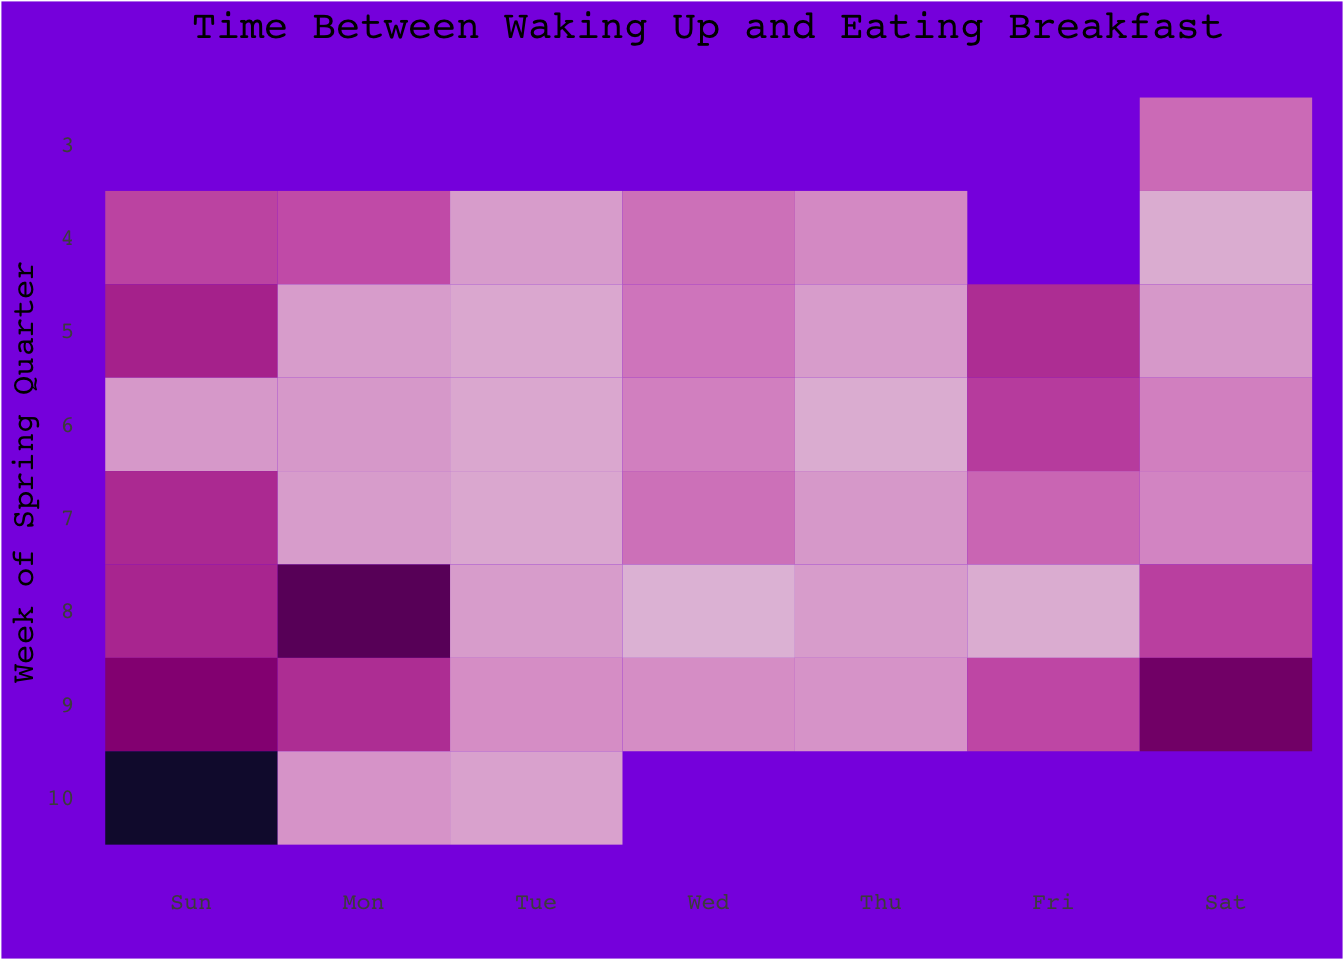
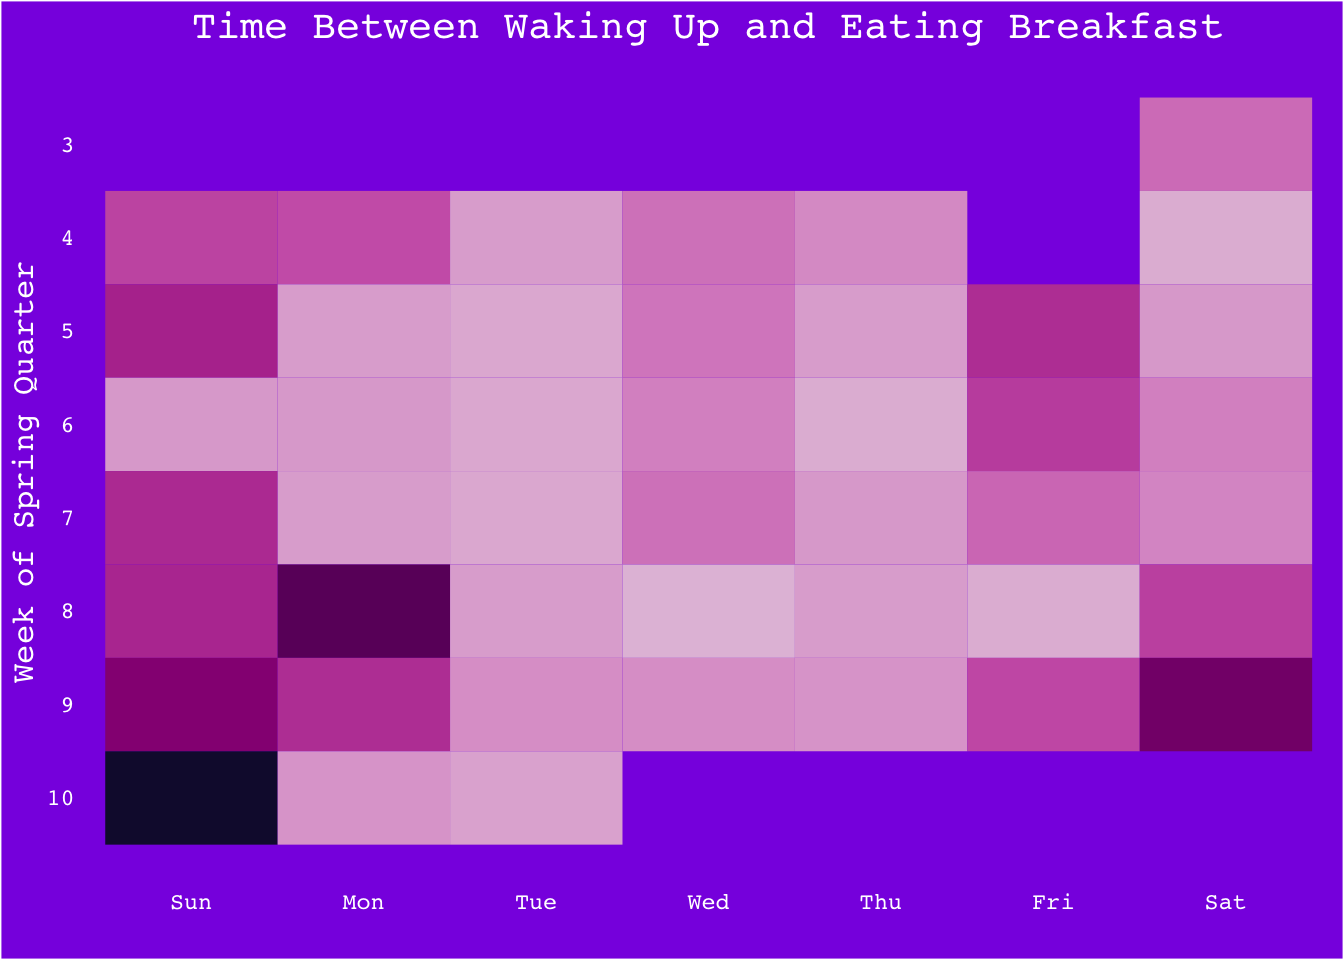
Wrote explanation, annotated code, organized data using here

diff --git a/code/advanced_data_vis.html b/code/advanced_data_vis.html
@@ -73,10 +73,19 @@ pre > code.sourceCode > span > a:first-child::before { text-decoration: underlin
 
 </head>
 
-<body class="fullcontent">
+<body>
 
 <div id="quarto-content" class="page-columns page-rows-contents page-layout-article">
-
+<div id="quarto-margin-sidebar" class="sidebar margin-sidebar">
+  <nav id="TOC" role="doc-toc" class="toc-active">
+    <h2 id="toc-title">Table of contents</h2>
+   
+  <ul>
+  <li><a href="#part-1.-understand-the-context" id="toc-part-1.-understand-the-context" class="nav-link active" data-scroll-target="#part-1.-understand-the-context">Part 1. Understand the context</a></li>
+  <li><a href="#part-2.-make-your-own-visualization-using-your-data" id="toc-part-2.-make-your-own-visualization-using-your-data" class="nav-link" data-scroll-target="#part-2.-make-your-own-visualization-using-your-data">Part 2. Make your own visualization using your data</a></li>
+  </ul>
+</nav>
+</div>
 <main class="content" id="quarto-document-content">
 
 <header id="title-block-header" class="quarto-title-block default">
@@ -147,74 +156,50 @@ pre > code.sourceCode > span > a:first-child::before { text-decoration: underlin
 <div class="cell">
 <div class="sourceCode cell-code" id="cb1"><pre class="sourceCode r code-with-copy"><code class="sourceCode r"><span id="cb1-1"><a href="#cb1-1" aria-hidden="true" tabindex="-1"></a><span class="co">#read in packages</span></span>
 <span id="cb1-2"><a href="#cb1-2" aria-hidden="true" tabindex="-1"></a><span class="fu">library</span>(readxl) <span class="co"># activating package to analyze excel files</span></span>
-<span id="cb1-3"><a href="#cb1-3" aria-hidden="true" tabindex="-1"></a><span class="fu">library</span>(tidyverse) <span class="co"># activating package to use pipe operator</span></span></code><button title="Copy to Clipboard" class="code-copy-button"><i class="bi"></i></button></pre></div>
-<div class="cell-output cell-output-stderr">
-<pre><code>── Attaching core tidyverse packages ──────────────────────── tidyverse 2.0.0 ──
-✔ dplyr     1.1.4     ✔ readr     2.1.5
-✔ forcats   1.0.0     ✔ stringr   1.5.1
-✔ ggplot2   3.5.1     ✔ tibble    3.2.1
-✔ lubridate 1.9.3     ✔ tidyr     1.3.1
-✔ purrr     1.0.2     
-── Conflicts ────────────────────────────────────────── tidyverse_conflicts() ──
-✖ dplyr::filter() masks stats::filter()
-✖ dplyr::lag()    masks stats::lag()
-ℹ Use the conflicted package (&lt;http://conflicted.r-lib.org/&gt;) to force all conflicts to become errors</code></pre>
-</div>
-<div class="sourceCode cell-code" id="cb3"><pre class="sourceCode r code-with-copy"><code class="sourceCode r"><span id="cb3-1"><a href="#cb3-1" aria-hidden="true" tabindex="-1"></a><span class="fu">library</span>(googlesheets4) <span class="co">#read in google sheet data</span></span>
-<span id="cb3-2"><a href="#cb3-2" aria-hidden="true" tabindex="-1"></a><span class="fu">library</span>(MoMAColors) <span class="co">#for color palates</span></span></code><button title="Copy to Clipboard" class="code-copy-button"><i class="bi"></i></button></pre></div>
+<span id="cb1-3"><a href="#cb1-3" aria-hidden="true" tabindex="-1"></a><span class="fu">library</span>(tidyverse) <span class="co"># activating package to use pipe operator</span></span>
+<span id="cb1-4"><a href="#cb1-4" aria-hidden="true" tabindex="-1"></a><span class="fu">library</span>(googlesheets4) <span class="co">#read in google sheet data</span></span>
+<span id="cb1-5"><a href="#cb1-5" aria-hidden="true" tabindex="-1"></a><span class="fu">library</span>(MoMAColors) <span class="co">#for color palates</span></span></code><button title="Copy to Clipboard" class="code-copy-button"><i class="bi"></i></button></pre></div>
 </div>
 <div class="cell">
-<div class="sourceCode cell-code" id="cb4"><pre class="sourceCode r code-with-copy"><code class="sourceCode r"><span id="cb4-1"><a href="#cb4-1" aria-hidden="true" tabindex="-1"></a><span class="co">#import data</span></span>
-<span id="cb4-2"><a href="#cb4-2" aria-hidden="true" tabindex="-1"></a><span class="fu">options</span>(<span class="at">gargle_oauth_email =</span> <span class="cn">TRUE</span>)</span>
-<span id="cb4-3"><a href="#cb4-3" aria-hidden="true" tabindex="-1"></a>oatmeal <span class="ot">&lt;-</span> <span class="fu">read_sheet</span>(<span class="st">"https://docs.google.com/spreadsheets/d/1-jehYNq2uGv3Dk84BBosJTLBaYldt46AJvlJO098-VI/edit?usp=sharing"</span>)</span></code><button title="Copy to Clipboard" class="code-copy-button"><i class="bi"></i></button></pre></div>
-<div class="cell-output cell-output-stderr">
-<pre><code>ℹ The googlesheets4 package is using a cached token for
-  'sebastiancox@ucsb.edu'.</code></pre>
-</div>
-<div class="cell-output cell-output-stderr">
-<pre><code>✔ Reading from "Data Collection Form".</code></pre>
-</div>
-<div class="cell-output cell-output-stderr">
-<pre><code>✔ Range 'Sheet1'.</code></pre>
-</div>
-<div class="sourceCode cell-code" id="cb8"><pre class="sourceCode r code-with-copy"><code class="sourceCode r"><span id="cb8-1"><a href="#cb8-1" aria-hidden="true" tabindex="-1"></a><span class="co">#clean data</span></span>
-<span id="cb8-2"><a href="#cb8-2" aria-hidden="true" tabindex="-1"></a>oatmeal_clean <span class="ot">&lt;-</span> <span class="fu">na.omit</span>(oatmeal) <span class="co">#remove blank values</span></span>
-<span id="cb8-3"><a href="#cb8-3" aria-hidden="true" tabindex="-1"></a><span class="co">#order data according to day</span></span>
-<span id="cb8-4"><a href="#cb8-4" aria-hidden="true" tabindex="-1"></a>day_order <span class="ot">&lt;-</span> <span class="fu">c</span>(<span class="st">"Sun"</span>,<span class="st">"Mon"</span>,<span class="st">"Tue"</span>,<span class="st">"Wed"</span>,<span class="st">"Thu"</span>,<span class="st">"Fri"</span>,<span class="st">"Sat"</span>)</span>
-<span id="cb8-5"><a href="#cb8-5" aria-hidden="true" tabindex="-1"></a>oatmeal_clean<span class="sc">$</span>day <span class="ot">&lt;-</span> <span class="fu">factor</span>(oatmeal_clean<span class="sc">$</span>day, <span class="at">levels =</span> day_order)</span>
-<span id="cb8-6"><a href="#cb8-6" aria-hidden="true" tabindex="-1"></a></span>
-<span id="cb8-7"><a href="#cb8-7" aria-hidden="true" tabindex="-1"></a>oatmeal_vis <span class="ot">&lt;-</span> oatmeal_clean <span class="sc">%&gt;%</span> </span>
-<span id="cb8-8"><a href="#cb8-8" aria-hidden="true" tabindex="-1"></a>  <span class="fu">select</span>(time_to_start_min, day, week)</span></code><button title="Copy to Clipboard" class="code-copy-button"><i class="bi"></i></button></pre></div>
+<div class="sourceCode cell-code" id="cb2"><pre class="sourceCode r code-with-copy"><code class="sourceCode r"><span id="cb2-1"><a href="#cb2-1" aria-hidden="true" tabindex="-1"></a><span class="co">#import data</span></span>
+<span id="cb2-2"><a href="#cb2-2" aria-hidden="true" tabindex="-1"></a><span class="fu">options</span>(<span class="at">gargle_oauth_email =</span> <span class="cn">TRUE</span>)</span>
+<span id="cb2-3"><a href="#cb2-3" aria-hidden="true" tabindex="-1"></a>oatmeal <span class="ot">&lt;-</span> <span class="fu">read_sheet</span>(<span class="st">"https://docs.google.com/spreadsheets/d/1-jehYNq2uGv3Dk84BBosJTLBaYldt46AJvlJO098-VI/edit?usp=sharing"</span>)</span>
+<span id="cb2-4"><a href="#cb2-4" aria-hidden="true" tabindex="-1"></a></span>
+<span id="cb2-5"><a href="#cb2-5" aria-hidden="true" tabindex="-1"></a><span class="co">#clean data</span></span>
+<span id="cb2-6"><a href="#cb2-6" aria-hidden="true" tabindex="-1"></a>oatmeal_clean <span class="ot">&lt;-</span> <span class="fu">na.omit</span>(oatmeal) <span class="co">#remove blank values</span></span>
+<span id="cb2-7"><a href="#cb2-7" aria-hidden="true" tabindex="-1"></a><span class="co">#order data according to day</span></span>
+<span id="cb2-8"><a href="#cb2-8" aria-hidden="true" tabindex="-1"></a>day_order <span class="ot">&lt;-</span> <span class="fu">c</span>(<span class="st">"Sun"</span>,<span class="st">"Mon"</span>,<span class="st">"Tue"</span>,<span class="st">"Wed"</span>,<span class="st">"Thu"</span>,<span class="st">"Fri"</span>,<span class="st">"Sat"</span>)</span>
+<span id="cb2-9"><a href="#cb2-9" aria-hidden="true" tabindex="-1"></a>oatmeal_clean<span class="sc">$</span>day <span class="ot">&lt;-</span> <span class="fu">factor</span>(oatmeal_clean<span class="sc">$</span>day, <span class="at">levels =</span> day_order)</span>
+<span id="cb2-10"><a href="#cb2-10" aria-hidden="true" tabindex="-1"></a></span>
+<span id="cb2-11"><a href="#cb2-11" aria-hidden="true" tabindex="-1"></a>oatmeal_vis <span class="ot">&lt;-</span> oatmeal_clean <span class="sc">%&gt;%</span> </span>
+<span id="cb2-12"><a href="#cb2-12" aria-hidden="true" tabindex="-1"></a>  <span class="fu">select</span>(time_to_start_min, day, week)</span></code><button title="Copy to Clipboard" class="code-copy-button"><i class="bi"></i></button></pre></div>
 </div>
 <div class="cell">
-<div class="sourceCode cell-code" id="cb9"><pre class="sourceCode r code-with-copy"><code class="sourceCode r"><span id="cb9-1"><a href="#cb9-1" aria-hidden="true" tabindex="-1"></a><span class="co">#data visualization</span></span>
-<span id="cb9-2"><a href="#cb9-2" aria-hidden="true" tabindex="-1"></a>min_week <span class="ot">&lt;-</span> <span class="dv">3</span></span>
-<span id="cb9-3"><a href="#cb9-3" aria-hidden="true" tabindex="-1"></a>max_week <span class="ot">&lt;-</span> <span class="dv">10</span></span>
-<span id="cb9-4"><a href="#cb9-4" aria-hidden="true" tabindex="-1"></a>plot <span class="ot">&lt;-</span> <span class="fu">ggplot</span>(<span class="at">data =</span> oatmeal_vis, </span>
-<span id="cb9-5"><a href="#cb9-5" aria-hidden="true" tabindex="-1"></a>               <span class="fu">aes</span>(<span class="at">x =</span> day,</span>
-<span id="cb9-6"><a href="#cb9-6" aria-hidden="true" tabindex="-1"></a>                   <span class="at">y =</span> week,</span>
-<span id="cb9-7"><a href="#cb9-7" aria-hidden="true" tabindex="-1"></a>                   <span class="at">fill =</span> time_to_start_min)) <span class="sc">+</span></span>
-<span id="cb9-8"><a href="#cb9-8" aria-hidden="true" tabindex="-1"></a>  <span class="fu">geom_tile</span>(<span class="at">color =</span> <span class="st">"white"</span>, <span class="at">size =</span> <span class="dv">0</span>) <span class="sc">+</span></span>
-<span id="cb9-9"><a href="#cb9-9" aria-hidden="true" tabindex="-1"></a>  <span class="fu">scale_y_reverse</span>(<span class="at">breaks =</span> min_week<span class="sc">:</span>max_week) <span class="sc">+</span></span>
-<span id="cb9-10"><a href="#cb9-10" aria-hidden="true" tabindex="-1"></a>  <span class="fu">scale_fill_moma_c</span>(<span class="st">"Flash"</span>) <span class="sc">+</span></span>
-<span id="cb9-11"><a href="#cb9-11" aria-hidden="true" tabindex="-1"></a>  <span class="fu">labs</span>(<span class="at">title =</span> <span class="st">"Time Between Waking Up and Eating Breakfast"</span>,</span>
-<span id="cb9-12"><a href="#cb9-12" aria-hidden="true" tabindex="-1"></a>       <span class="at">y =</span> <span class="st">"Week of Spring Quarter"</span>,</span>
-<span id="cb9-13"><a href="#cb9-13" aria-hidden="true" tabindex="-1"></a>       <span class="at">x =</span> <span class="st">""</span>) <span class="sc">+</span></span>
-<span id="cb9-14"><a href="#cb9-14" aria-hidden="true" tabindex="-1"></a>  <span class="fu">theme</span>(<span class="at">panel.grid.minor =</span><span class="fu">element_blank</span>(),</span>
-<span id="cb9-15"><a href="#cb9-15" aria-hidden="true" tabindex="-1"></a>        <span class="at">panel.grid.major =</span> <span class="fu">element_blank</span>(),</span>
-<span id="cb9-16"><a href="#cb9-16" aria-hidden="true" tabindex="-1"></a>        <span class="at">axis.ticks =</span> <span class="fu">element_blank</span>(),</span>
-<span id="cb9-17"><a href="#cb9-17" aria-hidden="true" tabindex="-1"></a>        <span class="at">legend.position =</span> <span class="st">"none"</span>,</span>
-<span id="cb9-18"><a href="#cb9-18" aria-hidden="true" tabindex="-1"></a>          <span class="at">panel.background =</span> <span class="fu">element_rect</span>(<span class="at">fill =</span> <span class="st">"blueviolet"</span>),</span>
-<span id="cb9-19"><a href="#cb9-19" aria-hidden="true" tabindex="-1"></a>        <span class="at">plot.background =</span> <span class="fu">element_rect</span>(<span class="at">fill =</span> <span class="st">"blueviolet"</span>),</span>
-<span id="cb9-20"><a href="#cb9-20" aria-hidden="true" tabindex="-1"></a>        <span class="at">panel.border =</span> <span class="fu">element_rect</span>(<span class="at">color =</span> <span class="st">"blueviolet"</span>, <span class="at">fill =</span> <span class="cn">NA</span>, <span class="at">linewidth =</span> <span class="fl">0.3</span>),</span>
-<span id="cb9-21"><a href="#cb9-21" aria-hidden="true" tabindex="-1"></a>        <span class="at">text =</span> <span class="fu">element_text</span>(<span class="at">family =</span> <span class="st">"Courier"</span>),</span>
-<span id="cb9-22"><a href="#cb9-22" aria-hidden="true" tabindex="-1"></a>        <span class="at">plot.title =</span> <span class="fu">element_text</span>(<span class="at">size =</span> <span class="dv">15</span>,<span class="at">hjust =</span> <span class="fl">0.5</span>),</span>
-<span id="cb9-23"><a href="#cb9-23" aria-hidden="true" tabindex="-1"></a>        <span class="at">axis.title =</span> <span class="fu">element_text</span>(<span class="at">size =</span> <span class="dv">12</span>))</span></code><button title="Copy to Clipboard" class="code-copy-button"><i class="bi"></i></button></pre></div>
-<div class="cell-output cell-output-stderr">
-<pre><code>Warning: Using `size` aesthetic for lines was deprecated in ggplot2 3.4.0.
-ℹ Please use `linewidth` instead.</code></pre>
-</div>
-<div class="sourceCode cell-code" id="cb11"><pre class="sourceCode r code-with-copy"><code class="sourceCode r"><span id="cb11-1"><a href="#cb11-1" aria-hidden="true" tabindex="-1"></a>plot</span></code><button title="Copy to Clipboard" class="code-copy-button"><i class="bi"></i></button></pre></div>
+<div class="sourceCode cell-code" id="cb3"><pre class="sourceCode r code-with-copy"><code class="sourceCode r"><span id="cb3-1"><a href="#cb3-1" aria-hidden="true" tabindex="-1"></a><span class="co">#data visualization</span></span>
+<span id="cb3-2"><a href="#cb3-2" aria-hidden="true" tabindex="-1"></a>min_week <span class="ot">&lt;-</span> <span class="dv">3</span></span>
+<span id="cb3-3"><a href="#cb3-3" aria-hidden="true" tabindex="-1"></a>max_week <span class="ot">&lt;-</span> <span class="dv">10</span></span>
+<span id="cb3-4"><a href="#cb3-4" aria-hidden="true" tabindex="-1"></a>plot <span class="ot">&lt;-</span> <span class="fu">ggplot</span>(<span class="at">data =</span> oatmeal_vis, </span>
+<span id="cb3-5"><a href="#cb3-5" aria-hidden="true" tabindex="-1"></a>               <span class="fu">aes</span>(<span class="at">x =</span> day,</span>
+<span id="cb3-6"><a href="#cb3-6" aria-hidden="true" tabindex="-1"></a>                   <span class="at">y =</span> week,</span>
+<span id="cb3-7"><a href="#cb3-7" aria-hidden="true" tabindex="-1"></a>                   <span class="at">fill =</span> time_to_start_min)) <span class="sc">+</span></span>
+<span id="cb3-8"><a href="#cb3-8" aria-hidden="true" tabindex="-1"></a>  <span class="fu">geom_tile</span>(<span class="at">color =</span> <span class="st">"white"</span>, <span class="at">size =</span> <span class="dv">0</span>) <span class="sc">+</span></span>
+<span id="cb3-9"><a href="#cb3-9" aria-hidden="true" tabindex="-1"></a>  <span class="fu">scale_y_reverse</span>(<span class="at">breaks =</span> min_week<span class="sc">:</span>max_week) <span class="sc">+</span></span>
+<span id="cb3-10"><a href="#cb3-10" aria-hidden="true" tabindex="-1"></a>  <span class="fu">scale_fill_moma_c</span>(<span class="st">"Flash"</span>) <span class="sc">+</span></span>
+<span id="cb3-11"><a href="#cb3-11" aria-hidden="true" tabindex="-1"></a>  <span class="fu">labs</span>(<span class="at">title =</span> <span class="st">"Time Between Waking Up and Eating Breakfast"</span>,</span>
+<span id="cb3-12"><a href="#cb3-12" aria-hidden="true" tabindex="-1"></a>       <span class="at">y =</span> <span class="st">"Week of Spring Quarter"</span>,</span>
+<span id="cb3-13"><a href="#cb3-13" aria-hidden="true" tabindex="-1"></a>       <span class="at">x =</span> <span class="st">""</span>) <span class="sc">+</span></span>
+<span id="cb3-14"><a href="#cb3-14" aria-hidden="true" tabindex="-1"></a>  <span class="fu">theme</span>(<span class="at">panel.grid.minor =</span><span class="fu">element_blank</span>(),</span>
+<span id="cb3-15"><a href="#cb3-15" aria-hidden="true" tabindex="-1"></a>        <span class="at">panel.grid.major =</span> <span class="fu">element_blank</span>(),</span>
+<span id="cb3-16"><a href="#cb3-16" aria-hidden="true" tabindex="-1"></a>        <span class="at">axis.ticks =</span> <span class="fu">element_blank</span>(),</span>
+<span id="cb3-17"><a href="#cb3-17" aria-hidden="true" tabindex="-1"></a>        <span class="at">legend.position =</span> <span class="st">"none"</span>,</span>
+<span id="cb3-18"><a href="#cb3-18" aria-hidden="true" tabindex="-1"></a>          <span class="at">panel.background =</span> <span class="fu">element_rect</span>(<span class="at">fill =</span> <span class="st">"blueviolet"</span>),</span>
+<span id="cb3-19"><a href="#cb3-19" aria-hidden="true" tabindex="-1"></a>        <span class="at">plot.background =</span> <span class="fu">element_rect</span>(<span class="at">fill =</span> <span class="st">"blueviolet"</span>),</span>
+<span id="cb3-20"><a href="#cb3-20" aria-hidden="true" tabindex="-1"></a>        <span class="at">text =</span> <span class="fu">element_text</span>(<span class="at">family =</span> <span class="st">"Courier"</span>),</span>
+<span id="cb3-21"><a href="#cb3-21" aria-hidden="true" tabindex="-1"></a>        <span class="at">plot.title =</span> <span class="fu">element_text</span>(<span class="at">size =</span> <span class="dv">15</span>,<span class="at">hjust =</span> <span class="fl">0.5</span>, <span class="at">color =</span> <span class="st">"white"</span>),</span>
+<span id="cb3-22"><a href="#cb3-22" aria-hidden="true" tabindex="-1"></a>        <span class="at">axis.title =</span> <span class="fu">element_text</span>(<span class="at">size =</span> <span class="dv">12</span>, <span class="at">color =</span> <span class="st">"white"</span>),</span>
+<span id="cb3-23"><a href="#cb3-23" aria-hidden="true" tabindex="-1"></a>        <span class="at">axis.text =</span> <span class="fu">element_text</span>(<span class="at">color =</span> <span class="st">"white"</span>))</span>
+<span id="cb3-24"><a href="#cb3-24" aria-hidden="true" tabindex="-1"></a></span>
+<span id="cb3-25"><a href="#cb3-25" aria-hidden="true" tabindex="-1"></a>plot</span></code><button title="Copy to Clipboard" class="code-copy-button"><i class="bi"></i></button></pre></div>
 <div class="cell-output-display">
 <div>
 <figure class="figure">
